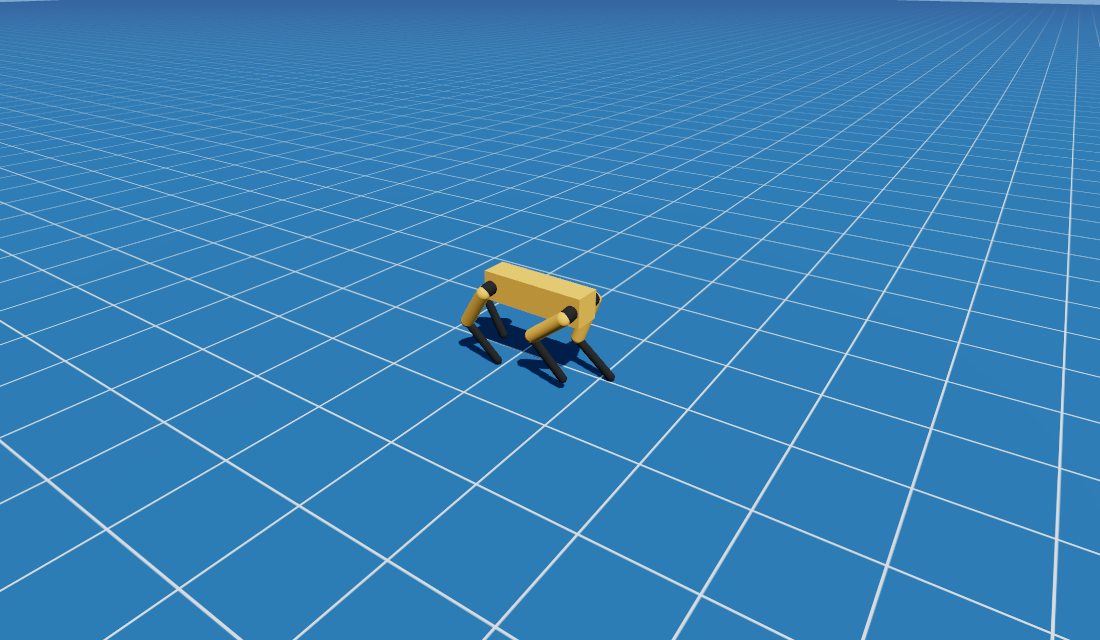
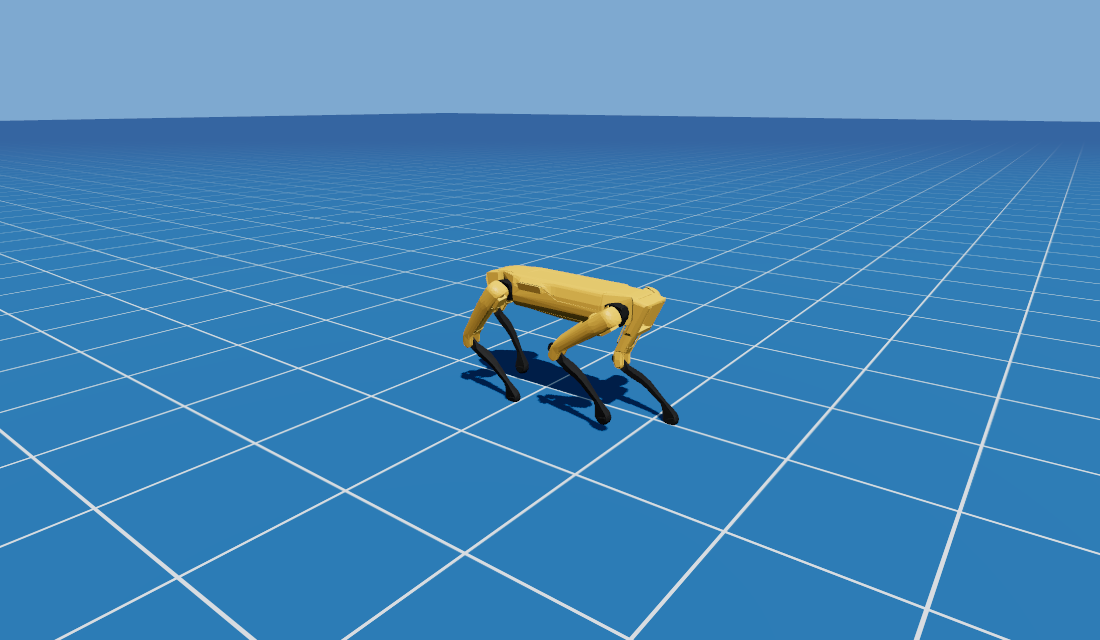
python: spot - use urdf's visual models [skip ci]

diff --git a/python/examples/spot/spot_deploy.py b/python/examples/spot/spot_deploy.py
@@ -129,14 +129,20 @@ def _capsule(length, radius, center, direction, color):
     return m, vol
 
 
-def build_spot(world):
-    """Build Spot as a PhysX articulation; returns (articulation, link meshes)."""
+def build_spot(world, assets=None):
+    """Build Spot as a PhysX articulation; returns (articulation, render meshes).
+
+    Physics uses tuned Box/Capsule colliders (the URDF has no collision/inertial). If `assets`
+    is given, each link's URDF visual mesh (link_models/*.obj) is parented under its collider so
+    Spot renders as the real robot while the primitives stay hidden but still drive the sim."""
     art = world.create_articulation(fixed_base=False, solver_position_iterations=12,
                                     disable_self_collision=True)
     bm = tp.Mesh(tp.BoxGeometry(0.70, 0.18, 0.19), tp.MeshStandardMaterial())
     bm.material.color = 0xffc24d
     bm.position.set(0, 0, Z0)
     base = art.add_link(bm, parent=None, density=MASS["base"] / (0.70 * 0.18 * 0.19))
+    if assets:
+        _attach_obj(bm, (0, 0, Z0), "base", 0xffc24d, assets)
     meshes = [bm]
     for L in LEGS:
         sx, sy = SIGN[L]
@@ -154,7 +160,14 @@ def build_spot(world):
         art.add_link(lm, parent=uleg, density=MASS["lleg"] / lv, axis=(0, 1, 0), anchor=tuple(Jkn),
                      lower=LIM["kn"][0], upper=LIM["kn"][1], stiffness=GAINS["kn"][0],
                      damping=GAINS["kn"][1], max_force=GAINS["kn"][2], drive_target=DEFAULT[L + "_kn"])
+        if assets:
+            _attach_obj(hm, Jhx, L + ".hip", 0x303030, assets)
+            _attach_obj(um, Jhy, L + ".uleg", 0xffc24d, assets)
+            _attach_obj(lm, Jkn, L + ".lleg", 0x303030, assets)
         meshes += [hm, um, lm]
+    if not assets:                       # no visuals: let the primitive colliders cast shadows
+        for m in meshes:
+            m.cast_shadow = True
     art.finalize()
     return art, meshes
 
@@ -165,6 +178,55 @@ def _quat_to_R(q):  # q = [qx,qy,qz,qw], body->world
         [1 - 2 * (y * y + z * z), 2 * (x * y - z * w), 2 * (x * z + y * w)],
         [2 * (x * y + z * w), 1 - 2 * (x * x + z * z), 2 * (y * z - x * w)],
         [2 * (x * z - y * w), 2 * (y * z + x * w), 1 - 2 * (x * x + y * y)]], float)
+
+
+def _quat_from_R(R):  # rotation matrix -> [qx,qy,qz,qw]
+    t = R[0, 0] + R[1, 1] + R[2, 2]
+    if t > 0:
+        s = math.sqrt(t + 1.0) * 2
+        return ((R[2, 1] - R[1, 2]) / s, (R[0, 2] - R[2, 0]) / s, (R[1, 0] - R[0, 1]) / s, 0.25 * s)
+    i = int(np.argmax([R[0, 0], R[1, 1], R[2, 2]]))
+    j, k = (i + 1) % 3, (i + 2) % 3
+    s = math.sqrt(1.0 + R[i, i] - R[j, j] - R[k, k]) * 2
+    q = [0.0, 0.0, 0.0, 0.0]
+    q[i] = 0.25 * s
+    q[j] = (R[j, i] + R[i, j]) / s
+    q[k] = (R[k, i] + R[i, k]) / s
+    q[3] = (R[k, j] - R[j, k]) / s
+    return tuple(q)
+
+
+def _compose(pos, quat):  # 4x4 from translation + quaternion
+    M = np.eye(4); M[:3, :3] = _quat_to_R(quat); M[:3, 3] = pos
+    return M
+
+
+def _attach_obj(collider, link_pos, name, color, assets):
+    """Parent a URDF visual mesh (link_models/<name>.obj, authored in the link frame) under
+    its bound collider so it tracks the physics, and hide the collider's own primitive via its
+    material (the object stays visible so the child still renders). Spot's visual origins are
+    all identity, so the link frame here is (link_pos, no rotation)."""
+    path = os.path.join(assets, "link_models", name + ".obj")
+    try:
+        grp = tp.OBJLoader().load(path, False)
+    except Exception as e:                       # missing/odd OBJ -> keep the primitive
+        print(f"[spot] visual {name}.obj not loaded ({e}); showing collider"); return None
+    cw = _compose([collider.position.x, collider.position.y, collider.position.z],
+                  [collider.quaternion.x, collider.quaternion.y, collider.quaternion.z, collider.quaternion.w])
+    loc = np.linalg.inv(cw) @ _compose(list(link_pos), [0.0, 0.0, 0.0, 1.0])
+    grp.position.set(*(float(v) for v in loc[:3, 3]))
+    grp.quaternion.set(*(float(v) for v in _quat_from_R(loc[:3, :3])))
+
+    def paint(o):
+        try:                                     # Mesh children get Spot's colours; Groups skip
+            mat = tp.MeshStandardMaterial(); mat.color = color; mat.roughness = 0.5; mat.metalness = 0.0
+            o.set_material(mat); o.cast_shadow = True
+        except Exception:
+            pass
+    grp.traverse(paint)
+    collider.add(grp)
+    collider.material.visible = False
+    return grp
 
 
 class SpotController:
@@ -241,7 +303,7 @@ def main():
     ground = tp.Mesh(tp.BoxGeometry(80, 80, 1.0), tp.MeshStandardMaterial())
     ground.position.set(0, 0, -0.5)
     world.add_static(ground)
-    art, meshes = build_spot(world)
+    art, meshes = build_spot(world, assets)   # assets -> render the URDF's link_models/*.obj
     ctrl = SpotController(art, policy)
     ctrl.hold(world, 150)   # stand up
 
@@ -270,8 +332,7 @@ def main():
     floor.receive_shadow = True
     scene.add(floor)
     for m in meshes:
-        m.cast_shadow = True
-        scene.add(m)
+        scene.add(m)   # each collider carries its hidden primitive + the visible OBJ (which casts)
 
     camera = tp.PerspectiveCamera(50, canvas.aspect(), 0.01, 300)
     camera.up.set(0, 0, 1)   # Z-up world
@@ -300,7 +361,7 @@ def main():
         for _ in range(120):
             ctrl.step(world, np.array([1.0, 0, 0], np.float32))   # walk forward ~2.4 s
         bx = art.root_state()[0]
-        camera.position.set(bx + 2.2, -3.2, 2.3); camera.look_at(bx, 0, 0.3)   # elevated 3/4 hero view
+        camera.position.set(bx + 1.7, -2.5, 1.35); camera.look_at(bx - 0.2, 0, 0.35)   # close 3/4 hero view
         rend.render(scene, camera)        # clean still (the controls HUD is interactive-only)
         rend.save_frame(args.shot)
         print(f"saved {args.shot}  (walked to x={bx:.2f} m)")
@@ -319,11 +380,25 @@ def main():
     def down(*keys):
         return any(canvas.is_key_down(k) for k in keys)
 
+    heading_lock = [None]   # yaw to hold while the user isn't turning
+
     def frame():
         # velocity command [vx, vy, wz] in Spot's body frame (+x fwd, +y left)
         vx = (1.5 if down("UP", "KP8") else 0.0) - (1.0 if down("DOWN", "KP2") else 0.0)
         vy = (1.0 if down("LEFT", "KP4") else 0.0) - (1.0 if down("RIGHT", "KP6") else 0.0)
-        wz = (1.5 if down("N", "KP7") else 0.0) - (1.5 if down("M", "KP9") else 0.0)
+        turn = (1.5 if down("N", "KP7") else 0.0) - (1.5 if down("M", "KP9") else 0.0)
+        # Hold heading when not actively turning: the policy only regulates yaw
+        # *rate* to 0, so any bias slowly spirals. A light P-controller on the yaw
+        # error keeps it pointing straight (and walking straight) when idle.
+        R = _quat_to_R(art.root_state()[3:7])
+        yaw = math.atan2(R[1, 0], R[0, 0])
+        if turn != 0.0:
+            wz, heading_lock[0] = turn, yaw
+        else:
+            if heading_lock[0] is None:
+                heading_lock[0] = yaw
+            err = (yaw - heading_lock[0] + math.pi) % (2 * math.pi) - math.pi
+            wz = float(np.clip(-2.0 * err, -1.0, 1.0))
         ctrl.step(world, np.array([vx, vy, wz], np.float32))
 
         # chase cam: sit BACK metres behind Spot's heading at HEIGHT, look at the body.

diff --git a/python/examples/spot/README.md b/python/examples/spot/README.md
@@ -49,8 +49,10 @@ threepp and Isaac Lab **both run PhysX 5**, which is what makes this work despit
 the approximations:
 
 - The URDF carries **no inertials or collision**, so link masses are approximated
-  and each link gets a **Box/Capsule** collider (the articulation API takes
-  primitive shapes, not the visual meshes).
+  and each link gets a **Box/Capsule** collider for the physics (the articulation
+  API takes primitive shapes). Those primitives are hidden — each link's **visual
+  mesh** (`link_models/*.obj`) is parented under its collider, so Spot *renders* as
+  the real robot while the capsules drive the simulation.
 - The knee's **remotized** actuator is treated as a plain PD.
 
 With the obs/action contract exact, the policy still produces a clean forward trot